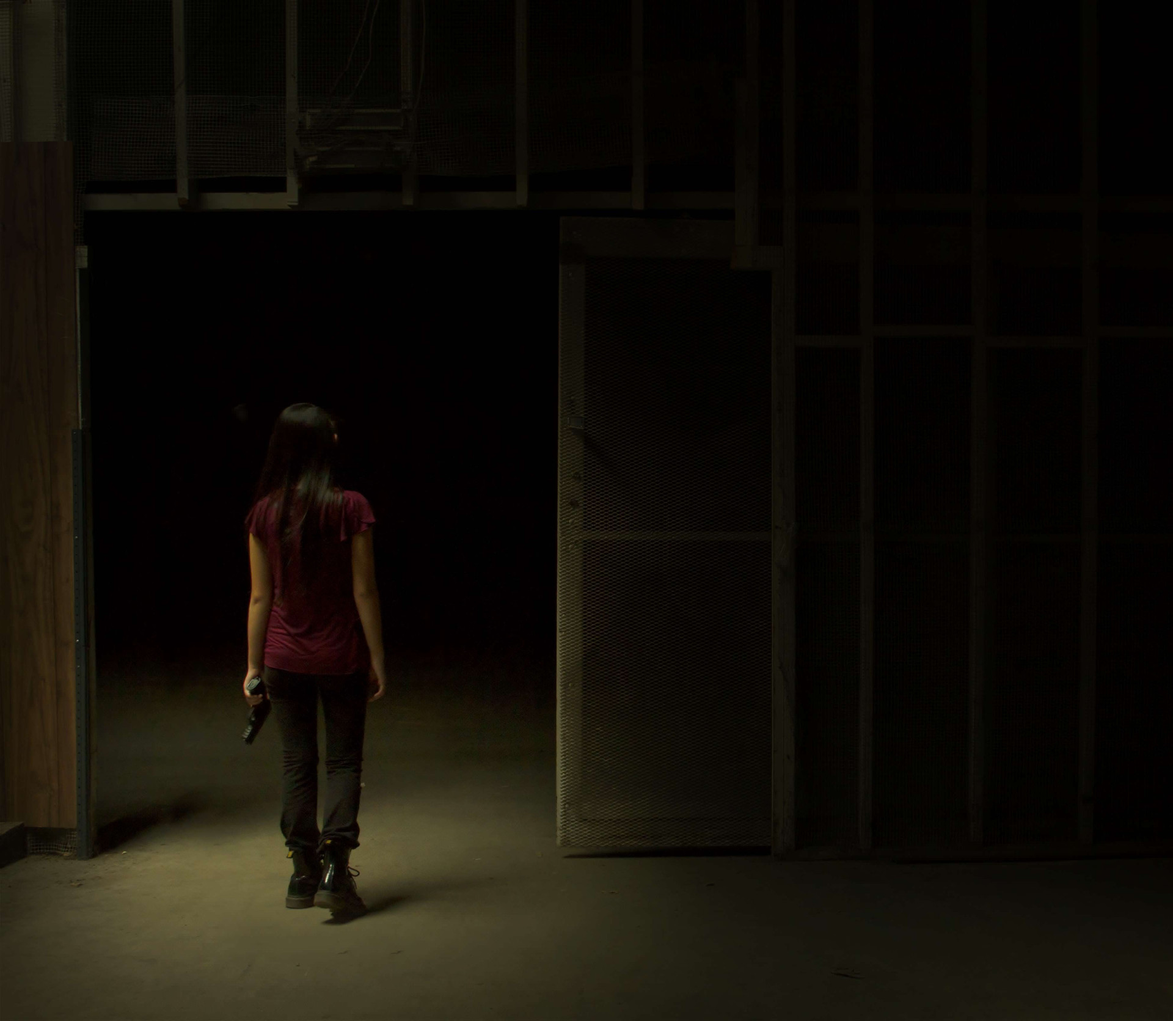
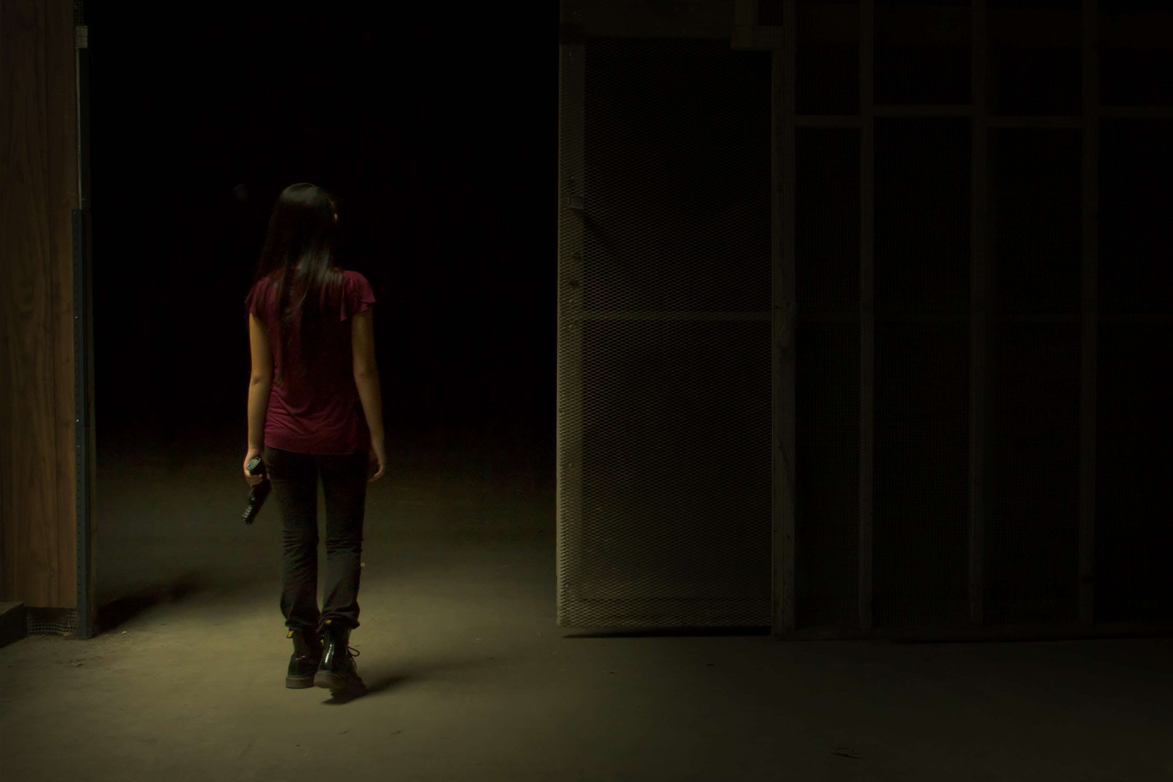
[fix] mobile css on the homepage [fix] bg sizing on the about page [new] crew bg

diff --git a/css/style.min.css b/css/style.min.css
@@ -1,1 +1,1 @@
-@font-face{font-family:codeLight;src:url('../font/CODE_Light.eot?') format('eot'),url('../font/CODE_Light.woff') format('woff'),url('../font/CODE_Light.ttf') format('truetype')}@font-face{font-family:codeBold;src:url(../font/CODE_Bold.otf)}@font-face{font-family:FontAwesome;src:url('../font/fontawesome-webfont.eot?') format('eot'),url('../font/fontawesome-webfont.woff') format('woff'),url('../font/fontawesome-webfont.ttf') format('truetype')}.col-width{width:210px;height:170.30075187969925px;display:none}.item{margin:5px;padding:20px;-webkit-box-sizing:content-box;-moz-box-sizing:content-box;box-sizing:content-box}.item img{cursor:pointer}.w1{width:160px}.w2{width:370px}.w3{width:580px}.w4{width:790px}.stamp{width:100%;font-size:50px;letter-spacing:15px;display:table}.stamp span{display:table-cell;vertical-align:bottom;padding-bottom:0;padding-left:25px;height:170px}.readtext,p{font-family:'Open Sans',sans-serif;font-family:'Play',sans-serif;font-family:'Electrolize',sans-serif;font-family:'Titillium Web',sans-serif;text-shadow:.1em .1em .2em black;font-weight:200}html{height:100%}body{font-family:codeLight;margin:0;padding:0;border:0;background-color:black;overflow:hidden;cursor:default;color:white;letter-spacing:2px;height:100%}#loading_wrapper{position:fixed;display:table;background-color:black;top:0;left:0;height:100%;width:100%;color:white;font-size:20px;letter-spacing:5px;text-align:center;vertical-align:middle;z-index:700}#loading_wrapper span{display:table-cell;vertical-align:middle;display:parent}.temp{position:fixed;display:table;top:0;left:0;height:100%;width:100%;color:white;font-size:80px;letter-spacing:25px;text-align:center;vertical-align:middle}.temp .note{font-size:20px;letter-spacing:10px}.temp>div{display:table-cell;vertical-align:middle;display:parent}.temp a{color:#3cd5ff}.content{height:100%;width:100%;overflow:hidden;position:absolute}.background{position:fixed;top:0;left:0;z-index:-1}.cast-bg{opacity:0;z-index:-1}.bg-in{opacity:1}.new-bg{z-index:0}#title_wrapper{clear:both;position:relative;height:220px;left:5%;width:650px}#title_wrapper br{line-height:3em}#title_wrapper>a{cursor:pointer;text-decoration:none}#title_floater{float:left;margin-bottom:-180px}#title_glow{position:relative;top:45px;box-shadow:0 0 150px 6px white;-webkit-box-shadow:0 0 150px 6px white}#title{font-size:80px;display:block;letter-spacing:30px;color:white;text-align:center}#subtitle{display:block;font-size:30px;letter-spacing:25px;color:silver;text-align:center}#comingsoon{display:block;font-size:40px;letter-spacing:10px;color:silver;text-align:center}#navbar_background{position:fixed;bottom:0;height:20px;width:100%;background-color:black;box-shadow:0 0 70px 50px black;-webkit-box-shadow:0 0 70px 50px black;z-index:550}#navbar_wrapper{position:fixed;bottom:10px;width:100%;text-align:center;z-index:600}#navbar{display:table;margin-left:auto;margin-right:auto;color:white;letter-spacing:5px;font-size:20px;bottom:10px}#navbar ul{list-style-type:none}#navbar>ul{display:table-row}#navbar>ul>li{display:table-cell;width:100px}.active-nav{border-bottom:none !important;border-left:20px solid transparent !important;border-right:20px solid transparent !important;padding:0 !important;padding-top:20px !important;padding-bottom:9px !important;cursor:pointer;color:#3cd5ff !important}#navbar a{border-left:0 solid transparent;border-right:0 solid transparent;text-decoration:none;color:inherit;display:block;padding:20px;padding-bottom:10px;-webkit-transition:color .5s ease;transition:color .5s ease;-webkit-transition:border-color .5s ease;transition:border-color .5s ease}#navbar a:hover{border-bottom:1px solid #3cd5ff;border-left:20px solid transparent;border-right:20px solid transparent;padding:0;padding-top:20px;padding-bottom:9px;cursor:pointer;color:#3cd5ff}.nav-link-changing{color:#3cd5ff !important;border-bottom:none !important;padding-bottom:10px !important}.nav-link-whiting{color:white !important}.viewer_wrapper{position:fixed;bottom:200px;top:20px}.viewer_wrapper_small{position:fixed;bottom:200px;top:20px;opacity:.3}#gallery{background-color:black}#gallery_wrapper{height:100%;overflow-y:auto}#gallery_wrapper_left{margin-left:20px;left:0}#gallery_wrapper_right{margin-right:20px;right:0}.gallery_thumb{width:100%}.scrollpanel_wrapper{position:fixed;height:100px;bottom:50px;width:100%}.scrollpanel{height:100%;overflow:auto;overflow-y:hidden;white-space:nowrap}.scrollpanel img{padding-left:20px;padding-right:20px;height:100%}.scrollpanel_background{position:fixed;bottom:0;height:20px;width:100%;background-color:black;box-shadow:0 0 100px 50px black;-webkit-box-shadow:0 0 100px 50px black}#image-viewer{overflow:hidden}#image-viewer>.modal-dialog{width:80%;height:90%;padding:0;margin-top:15px;background-color:black}#image-viewer>.modal-dialog>.modal-content{background-color:transparent;width:100%;height:90%}#image-viewer>.modal-dialog>.modal-content .modal-body{padding:0}.gallery-arrow{height:100%;font-family:FontAwesome;font-size:50px;display:table;margin:auto}#image-viewer .col-sm-1{cursor:pointer}.gallery-arrow>div{display:table-cell;vertical-align:middle}#gallery_pic_wrapper{height:100%;text-align:center}#gallery_pic{height:100%}.actor{width:100%;padding:20px;padding-right:20%;background-color:rgba(30,30,30,0.8);position:absolute;bottom:70px;right:-100%}.a-fade{opacity:0}.avisi{right:-20px}.bio{display:inline-block;color:white;white-space:normal;line-height:20px}.bio div{border-top:1px solid white}.first-word{font-size:35px;letter-spacing:6px;font-family:codeLight}.actor_pic{vertical-align:middle;display:inline-block;height:100%;width:22.5%;text-align:center}.actor_pic img{width:100%;max-height:100%;border:1px solid white}.actor_name{vertical-align:middle;display:inline-block;height:100%;width:4%}.actor-left .actor_name div{left:-75px;-webkit-transform:rotate(-90deg);-moz-transform:rotate(-90deg);-ms-transform:rotate(-90deg);-o-transform:rotate(-90deg);filter:progid:DXImageTransform.Microsoft.BasicImage(rotation=3)}.actor-right .actor_name div{left:-100px;-webkit-transform:rotate(90deg);-moz-transform:rotate(90deg);-ms-transform:rotate(90deg);-o-transform:rotate(90deg);filter:progid:DXImageTransform.Microsoft.BasicImage(rotation=1)}.actor_name div{position:relative;display:inline-block;top:90px;color:white;letter-spacing:10px;font-size:30px}.actor_spacer{vertical-align:middle;display:inline-block;height:100%;width:4%}.scroll_wrapper{overflow:hidden;overflow-y:auto;height:100%}.viewer-panel{display:table;vertical-align:middle}#viewer-floater{float:left;height:50%;margin-bottom:-279}#viewer{clear:both;height:500;position:relative}#viewer iframe{display:none}.visi{display:block !important}.vid_tag,.person_tag,.gal_tag{padding-top:35px;padding-bottom:5px;padding-left:15%;font-size:20px;letter-spacing:3px;border-color:transparent;-webkit-transition:color .5s ease;transition:color .5s ease;-webkit-transition:border-color .5s ease;transition:border-color .5s ease;position:relative}.vid_tag:hover,.person_tag:hover,.gal_tag:hover{border-bottom:1px solid #3cd5ff;padding-bottom:4px;cursor:pointer;color:#3cd5ff}.active-side{border-bottom:none !important;padding-bottom:5px !important;color:#3cd5ff}.active-side-changing{border-bottom:none !important;padding-bottom:5px !important;color:#3cd5ff !important}.active-side-whiting{color:white}#sidebar{height:100%;overflow-y:auto;background-color:rgba(0,0,0,0.5);box-shadow:0 0 70px 100px rgba(0,0,0,0.5);-webkit-box-shadow:0 0 70px 100px rgba(0,0,0,0.5);text-shadow:2px 2px .5em black,2px 2px .5em black;padding-top:50px}#crew-title{display:block;position:absolute;top:0;left:0;bottom:0;width:1em;white-space:nowrap;font-size:100px;background-color:rgba(0,0,0,0.75);box-shadow:0 0 70px 50px rgba(0,0,0,0.75);-webkit-box-shadow:0 0 70px 50px rgba(0,0,0,0.75)}#crew-title>div{-webkit-transform:rotate(-90deg);transform:rotate(-90deg);position:absolute;top:0;bottom:0;height:2em;margin:auto;line-height:1em}.crew-pic-hidden{margin-left:-60px}.panel{background-color:transparent;border:0;border-radius:0;padding:0}.panel-body{background-color:rgba(32,27,27,0.7)}.panel-heading{padding:10px;-webkit-transition:margin ease .3s;transition:margin ease .3s}.panel-default>.panel-heading{background:-moz-linear-gradient(left,rgba(14,12,12,0.81) 25%,rgba(14,12,12,0.6) 100%);background:-webkit-gradient(linear,left top,right top,color-stop(25%,rgba(14,12,12,0.81)),color-stop(100%,rgba(14,12,12,0.6)));background:-webkit-linear-gradient(left,rgba(14,12,12,0.81) 25%,rgba(14,12,12,0.6) 100%);background:-o-linear-gradient(left,rgba(14,12,12,0.81) 25%,rgba(14,12,12,0.6) 100%);background:-ms-linear-gradient(left,rgba(14,12,12,0.81) 25%,rgba(14,12,12,0.6) 100%);background:linear-gradient(to right,rgba(14,12,12,0.81) 25%,rgba(14,12,12,0.6) 100%);filter:progid:DXImageTransform.Microsoft.gradient(startColorstr='#cf0e0c0c',endColorstr='#1a0e0c0c',GradientType=1)}.panel-heading:focus{background-color:white}.panel-heading>div{display:inline-block}.panel-heading>div>img{padding-right:10px}.panel-title{display:inline-block}.panel-heading>div>img{height:50px}.panel-title{font-size:30px;top:7px;position:relative}.panel-title>a{color:white;font-family:codeLight;display:block;width:100%}.panel-title>a:hover{color:#3cd5ff;text-decoration:none}#expand-button{display:none !important}#image-viewer .col-sm-1{float:left;width:8.333333333333332%}#image-viewer .col-sm-10{float:left;width:83.33333333333334%}#about-title{font-size:100px;letter-spacing:20px;padding-right:40px}#about-content{font-size:15px;text-align:right;padding-right:50px}#social-content>div{padding-top:5px;padding-bottom:15px}#social-content>div>a{color:white;display:inline-block;line-height:40px;padding-left:10px}#unfixed-about-text{display:none}#social-title{font-size:40px;letter-spacing:10px}#about-content b{font-weight:400}#social-content>div>a:hover{color:#3cd5ff}@media(min-width:768 px){#sidebar:last-child{padding-bottom:80px}}@media(max-width:430px){#social-content>div>a:first-child{display:none}#social-content>div{display:inline-block}#social-content>div:first-child{display:block}}@media(max-width:767px){.stamp span{text-align:center}.temp{font-size:40px}.temp .note{font-size:10px}.w2{width:160px}.gal_tag,.vid_tag,.person_tag{padding-top:15px;padding-left:2%;padding-right:2%}#sidebar{padding-top:30px}#about-title{font-size:60px}#social-title{font-size:20px}#unfixed-about-text{display:block}#fixed-about-text{display:none}#expand-button{display:block !important;font-family:fontawesome}#navbar{display:block;background-color:#000;height:18px;width:120px;left:0;position:absolute;-webkit-transition:height .5s ease;transition:height .5s ease;box-shadow:0 0 60px 30px #000;-webkit-box-shadow:0 0 60px 30px #000}#navbar>ul>li>a{padding-top:5px;padding-bottom:5px;-webkit-transition:border-color 0 ease !important;transition:border-color 0 ease !important}#navbar>ul>li>a:hover,.active-nav{border:none !important;padding:5px 20px !important}#navbar>ul>li{display:block;text-align:center}.navbar-up{height:278px !important}.nav-link-changing{padding-bottom:5px !important}#title_wrapper{left:0;width:100%}#title{font-size:50px;letter-spacing:15px}#subtitle{font-size:25px;letter-spacing:15px}#comingsoon{font-size:30px}#sidebar>.person_tag,#sidebar>.gal_tag{padding-top:5px !important;display:inline-block;width:40%;min-width:220px;text-align:center;font-size:15px}#sidebar>.gal_tag{width:50%}#sidebar{height:auto;white-space:nowrap;background-color:rgba(0,0,0,0.8);box-shadow:0 0 100px 50px rgba(0,0,0,0.8);-webkit-box-shadow:0 0 100px 50px rgba(0,0,0,0.8);transition:scroll .3s;-webkit-transition:scroll .3s}.actor{position:fixed;bottom:10% !important;font-size:12px !important;overflow:auto;height:30%}#crew-title{position:relative;top:auto;left:auto;bottom:auto;width:100%;white-space:auto;text-align:center;font-size:150px}#crew-title>div{-webkit-transform:none;transform:none;position:relative;top:auto;bottom:auto;height:auto;margin:auto;line-height:1em}#crew>.col-sm-3{height:auto !important;width:100%}.panel-title{font-size:18px;top:3px}.panel-heading{padding:5px}.crew-pic-hidden{margin-left:-40px}#crew{margin:0}.panel-heading>div>img{height:30px}.panel-collapse>.panel-body>.row>.col-sm-9{font-size:12px}.panel-collapse>.panel-body>.row>.col-sm-3{padding-bottom:10px;width:130px;margin:auto}#crew>.col-sm-8{padding-bottom:150px}}::-webkit-scrollbar{height:5px;width:5px}::-webkit-scrollbar-thumb{-webkit-box-shadow:inset 0 0 30px #2aa7ff}::-webkit-scrollbar-track{-webkit-box-shadow:inset 0 0 20px rgba(0,0,0,0.7)}#crew ::-webkit-scrollbar-thumb{-webkit-box-shadow:inset 0 0 30px black}#crew ::-webkit-scrollbar-track{-webkit-box-shadow:inset 0 0 20px rgba(190,190,190,0.4)}#scrollbar2 .viewport{position:fixed;height:100px;bottom:40px;width:100%}#scrollbar2 .overview{position:absolute;height:100%;white-space:nowrap}#scrollbar2 .overview img{margin-left:20px;margin-right:20px;height:100%;cursor:pointer}#scrollbar2 .scrollbar{position:relative;clear:both;height:5px;bottom:-5px}#scrollbar2 .track{width:100%;height:15px;position:relative}#scrollbar2 .thumb{background-color:silver;height:5px;cursor:pointer;overflow:hidden;position:absolute;left:0;top:-5px}#scrollbar2 .thumb .end{overflow:hidden;height:25px;width:5px}#scrollbar2 .disable{display:none}.noSelect{user-select:none;-o-user-select:none;-moz-user-select:none;-khtml-user-select:none;-webkit-user-select:none}.animate03{transition:all .3s;-webkit-transition:all .3s}
+@font-face{font-family:codeLight;src:url('../font/CODE_Light.eot?') format('eot'),url('../font/CODE_Light.woff') format('woff'),url('../font/CODE_Light.ttf') format('truetype')}@font-face{font-family:codeBold;src:url(../font/CODE_Bold.otf)}@font-face{font-family:FontAwesome;src:url('../font/fontawesome-webfont.eot?') format('eot'),url('../font/fontawesome-webfont.woff') format('woff'),url('../font/fontawesome-webfont.ttf') format('truetype')}.col-width{width:210px;height:170.30075187969925px;display:none}.item{margin:5px;padding:20px;-webkit-box-sizing:content-box;-moz-box-sizing:content-box;box-sizing:content-box}.item img{cursor:pointer}.w1{width:160px}.w2{width:370px}.w3{width:580px}.w4{width:790px}.stamp{width:100%;font-size:50px;letter-spacing:15px;display:table}.stamp span{display:table-cell;vertical-align:bottom;padding-bottom:0;padding-left:25px;height:170px}.readtext,p{font-family:'Open Sans',sans-serif;font-family:'Play',sans-serif;font-family:'Electrolize',sans-serif;font-family:'Titillium Web',sans-serif;text-shadow:.1em .1em .2em black;font-weight:200}html{height:100%}body{font-family:codeLight;margin:0;padding:0;border:0;background-color:black;overflow:hidden;cursor:default;color:white;letter-spacing:2px;height:100%}#loading_wrapper{position:fixed;display:table;background-color:black;top:0;left:0;height:100%;width:100%;color:white;font-size:20px;letter-spacing:5px;text-align:center;vertical-align:middle;z-index:700}#loading_wrapper span{display:table-cell;vertical-align:middle;display:parent}.temp{position:fixed;display:table;top:0;left:0;height:100%;width:100%;color:white;font-size:80px;letter-spacing:25px;text-align:center;vertical-align:middle}.temp .note{font-size:20px;letter-spacing:10px}.temp>div{display:table-cell;vertical-align:middle;display:parent}.temp a{color:#3cd5ff}.content{height:100%;width:100%;overflow:hidden;position:absolute}.background{position:fixed;top:0;left:0;z-index:-1}.cast-bg{opacity:0;z-index:-1}.bg-in{opacity:1}.new-bg{z-index:0}#title_wrapper{clear:both;position:relative;height:220px;left:5%;width:650px}#title_wrapper br{line-height:3em}#title_wrapper>a{cursor:pointer;text-decoration:none}#title_floater{float:left;margin-bottom:-180px}#title_glow{position:relative;top:45px;box-shadow:0 0 150px 6px white;-webkit-box-shadow:0 0 150px 6px white}#title{font-size:80px;display:block;letter-spacing:30px;color:white;text-align:center}#subtitle{display:block;font-size:30px;letter-spacing:25px;color:silver;text-align:center}#comingsoon{display:block;font-size:40px;letter-spacing:10px;color:silver;text-align:center}#navbar_background{position:fixed;bottom:0;height:20px;width:100%;background-color:black;box-shadow:0 0 70px 50px black;-webkit-box-shadow:0 0 70px 50px black;z-index:550}#navbar_wrapper{position:fixed;bottom:10px;width:100%;text-align:center;z-index:600}#navbar{display:table;margin-left:auto;margin-right:auto;color:white;letter-spacing:5px;font-size:20px;bottom:10px}#navbar ul{list-style-type:none}#navbar>ul{display:table-row}#navbar>ul>li{display:table-cell;width:100px}.active-nav{border-bottom:none !important;border-left:20px solid transparent !important;border-right:20px solid transparent !important;padding:0 !important;padding-top:20px !important;padding-bottom:9px !important;cursor:pointer;color:#3cd5ff !important}#navbar a{border-left:0 solid transparent;border-right:0 solid transparent;text-decoration:none;color:inherit;display:block;padding:20px;padding-bottom:10px;-webkit-transition:color .5s ease;transition:color .5s ease;-webkit-transition:border-color .5s ease;transition:border-color .5s ease}#navbar a:hover{border-bottom:1px solid #3cd5ff;border-left:20px solid transparent;border-right:20px solid transparent;padding:0;padding-top:20px;padding-bottom:9px;cursor:pointer;color:#3cd5ff}.nav-link-changing{color:#3cd5ff !important;border-bottom:none !important;padding-bottom:10px !important}.nav-link-whiting{color:white !important}.viewer_wrapper{position:fixed;bottom:200px;top:20px}.viewer_wrapper_small{position:fixed;bottom:200px;top:20px;opacity:.3}#gallery{background-color:black}#gallery_wrapper{height:100%;overflow-y:auto}#gallery_wrapper_left{margin-left:20px;left:0}#gallery_wrapper_right{margin-right:20px;right:0}.gallery_thumb{width:100%}.scrollpanel_wrapper{position:fixed;height:100px;bottom:50px;width:100%}.scrollpanel{height:100%;overflow:auto;overflow-y:hidden;white-space:nowrap}.scrollpanel img{padding-left:20px;padding-right:20px;height:100%}.scrollpanel_background{position:fixed;bottom:0;height:20px;width:100%;background-color:black;box-shadow:0 0 100px 50px black;-webkit-box-shadow:0 0 100px 50px black}#image-viewer{overflow:hidden}#image-viewer>.modal-dialog{width:80%;height:90%;padding:0;margin-top:15px;background-color:black}#image-viewer>.modal-dialog>.modal-content{background-color:transparent;width:100%;height:90%}#image-viewer>.modal-dialog>.modal-content .modal-body{padding:0}.gallery-arrow{height:100%;font-family:FontAwesome;font-size:50px;display:table;margin:auto}#image-viewer .col-sm-1{cursor:pointer}.gallery-arrow>div{display:table-cell;vertical-align:middle}#gallery_pic_wrapper{height:100%;text-align:center}#gallery_pic{height:100%}.actor{width:100%;padding:20px;padding-right:20%;background-color:rgba(30,30,30,0.8);position:absolute;bottom:70px;right:-100%}.a-fade{opacity:0}.avisi{right:-20px}.bio{display:inline-block;color:white;white-space:normal;line-height:20px}.bio div{border-top:1px solid white}.first-word{font-size:35px;letter-spacing:6px;font-family:codeLight}.actor_pic{vertical-align:middle;display:inline-block;height:100%;width:22.5%;text-align:center}.actor_pic img{width:100%;max-height:100%;border:1px solid white}.actor_name{vertical-align:middle;display:inline-block;height:100%;width:4%}.actor-left .actor_name div{left:-75px;-webkit-transform:rotate(-90deg);-moz-transform:rotate(-90deg);-ms-transform:rotate(-90deg);-o-transform:rotate(-90deg);filter:progid:DXImageTransform.Microsoft.BasicImage(rotation=3)}.actor-right .actor_name div{left:-100px;-webkit-transform:rotate(90deg);-moz-transform:rotate(90deg);-ms-transform:rotate(90deg);-o-transform:rotate(90deg);filter:progid:DXImageTransform.Microsoft.BasicImage(rotation=1)}.actor_name div{position:relative;display:inline-block;top:90px;color:white;letter-spacing:10px;font-size:30px}.actor_spacer{vertical-align:middle;display:inline-block;height:100%;width:4%}.scroll_wrapper{overflow:hidden;overflow-y:auto;height:100%}.viewer-panel{display:table;vertical-align:middle}#viewer-floater{float:left;height:50%;margin-bottom:-279}#viewer{clear:both;height:500;position:relative}#viewer iframe{display:none}.visi{display:block !important}.vid_tag,.person_tag,.gal_tag{padding-top:35px;padding-bottom:5px;padding-left:15%;font-size:20px;letter-spacing:3px;border-color:transparent;-webkit-transition:color .5s ease;transition:color .5s ease;-webkit-transition:border-color .5s ease;transition:border-color .5s ease;position:relative}.vid_tag:hover,.person_tag:hover,.gal_tag:hover{border-bottom:1px solid #3cd5ff;padding-bottom:4px;cursor:pointer;color:#3cd5ff}.active-side{border-bottom:none !important;padding-bottom:5px !important;color:#3cd5ff}.active-side-changing{border-bottom:none !important;padding-bottom:5px !important;color:#3cd5ff !important}.active-side-whiting{color:white}#sidebar{height:100%;overflow-y:auto;background-color:rgba(0,0,0,0.5);box-shadow:0 0 70px 100px rgba(0,0,0,0.5);-webkit-box-shadow:0 0 70px 100px rgba(0,0,0,0.5);text-shadow:2px 2px .5em black,2px 2px .5em black;padding-top:50px}#crew-title{display:block;position:absolute;top:0;left:0;bottom:0;width:1em;white-space:nowrap;font-size:100px;background-color:rgba(0,0,0,0.75);box-shadow:0 0 70px 50px rgba(0,0,0,0.75);-webkit-box-shadow:0 0 70px 50px rgba(0,0,0,0.75)}#crew-title>div{-webkit-transform:rotate(-90deg);transform:rotate(-90deg);position:absolute;top:0;bottom:0;height:2em;margin:auto;line-height:1em}.crew-pic-hidden{margin-left:-60px}.panel{background-color:transparent;border:0;border-radius:0;padding:0}.panel-body{background-color:rgba(32,27,27,0.7)}.panel-heading{padding:10px;-webkit-transition:margin ease .3s;transition:margin ease .3s}.panel-default>.panel-heading{background:-moz-linear-gradient(left,rgba(14,12,12,0.81) 25%,rgba(14,12,12,0.6) 100%);background:-webkit-gradient(linear,left top,right top,color-stop(25%,rgba(14,12,12,0.81)),color-stop(100%,rgba(14,12,12,0.6)));background:-webkit-linear-gradient(left,rgba(14,12,12,0.81) 25%,rgba(14,12,12,0.6) 100%);background:-o-linear-gradient(left,rgba(14,12,12,0.81) 25%,rgba(14,12,12,0.6) 100%);background:-ms-linear-gradient(left,rgba(14,12,12,0.81) 25%,rgba(14,12,12,0.6) 100%);background:linear-gradient(to right,rgba(14,12,12,0.81) 25%,rgba(14,12,12,0.6) 100%);filter:progid:DXImageTransform.Microsoft.gradient(startColorstr='#cf0e0c0c',endColorstr='#1a0e0c0c',GradientType=1)}.panel-heading:focus{background-color:white}.panel-heading>div{display:inline-block}.panel-heading>div>img{padding-right:10px}.panel-title{display:inline-block}.panel-heading>div>img{height:50px}.panel-title{font-size:30px;top:7px;position:relative}.panel-title>a{color:white;font-family:codeLight;display:block;width:100%}.panel-title>a:hover{color:#3cd5ff;text-decoration:none}#expand-button{display:none !important}#image-viewer .col-sm-1{float:left;width:8.333333333333332%}#image-viewer .col-sm-10{float:left;width:83.33333333333334%}#about-title{font-size:100px;letter-spacing:20px;padding-right:40px}#about-content{font-size:15px;text-align:right;padding-right:50px}#social-content>div{padding-top:5px;padding-bottom:15px}#social-content>div>a{color:white;display:inline-block;line-height:40px;padding-left:10px}#unfixed-about-text{display:none}#social-title{font-size:40px;letter-spacing:10px}#about-content b{font-weight:400}#social-content>div>a:hover{color:#3cd5ff}@media(min-width:768 px){#sidebar:last-child{padding-bottom:80px}}@media(max-width:430px){#social-content>div>a:first-child{display:none}#social-content>div{display:inline-block}#social-content>div:first-child{display:block}#home>#main_background{position:absolute;left:-30%}#comingsoon{display:none}#title_wrapper{position:absolute;top:50%}}@media(max-width:767px){.stamp span{text-align:center}.temp{font-size:40px}.temp .note{font-size:10px}.w2{width:160px}.gal_tag,.vid_tag,.person_tag{padding-top:15px;padding-left:2%;padding-right:2%}#sidebar{padding-top:30px}#about-title{font-size:60px}#social-title{font-size:20px}#unfixed-about-text{display:block}#fixed-about-text{display:none}#expand-button{display:block !important;font-family:fontawesome}#navbar{display:block;background-color:#000;height:18px;width:120px;left:0;position:absolute;-webkit-transition:height .5s ease;transition:height .5s ease;box-shadow:0 0 60px 30px #000;-webkit-box-shadow:0 0 60px 30px #000}#navbar>ul>li>a{padding-top:5px;padding-bottom:5px;-webkit-transition:border-color 0 ease !important;transition:border-color 0 ease !important}#navbar>ul>li>a:hover,.active-nav{border:none !important;padding:5px 20px !important}#navbar>ul>li{display:block;text-align:center}.navbar-up{height:278px !important}.nav-link-changing{padding-bottom:5px !important}#title_wrapper{width:350px}#title{font-size:50px;letter-spacing:15px}#subtitle{font-size:25px;letter-spacing:15px}#comingsoon{font-size:30px}#sidebar>.person_tag,#sidebar>.gal_tag{padding-top:5px !important;display:inline-block;width:40%;min-width:220px;text-align:center;font-size:15px}#sidebar>.gal_tag{width:50%}#sidebar{height:auto;white-space:nowrap;background-color:rgba(0,0,0,0.8);box-shadow:0 0 100px 50px rgba(0,0,0,0.8);-webkit-box-shadow:0 0 100px 50px rgba(0,0,0,0.8);transition:scroll .3s;-webkit-transition:scroll .3s}.actor{position:fixed;bottom:10% !important;font-size:12px !important;overflow:auto;height:30%}#crew-title{position:relative;top:auto;left:auto;bottom:auto;width:100%;white-space:auto;text-align:center;font-size:150px}#crew-title>div{-webkit-transform:none;transform:none;position:relative;top:auto;bottom:auto;height:auto;margin:auto;line-height:1em}#crew>.col-sm-3{height:auto !important;width:100%}.panel-title{font-size:18px;top:3px}.panel-heading{padding:5px}.crew-pic-hidden{margin-left:-40px}#crew{margin:0}.panel-heading>div>img{height:30px}.panel-collapse>.panel-body>.row>.col-sm-9{font-size:12px}.panel-collapse>.panel-body>.row>.col-sm-3{padding-bottom:10px;width:130px;margin:auto}#crew>.col-sm-8{padding-bottom:150px}}::-webkit-scrollbar{height:5px;width:5px}::-webkit-scrollbar-thumb{-webkit-box-shadow:inset 0 0 30px #2aa7ff}::-webkit-scrollbar-track{-webkit-box-shadow:inset 0 0 20px rgba(0,0,0,0.7)}#crew ::-webkit-scrollbar-thumb{-webkit-box-shadow:inset 0 0 30px black}#crew ::-webkit-scrollbar-track{-webkit-box-shadow:inset 0 0 20px rgba(190,190,190,0.4)}#scrollbar2 .viewport{position:fixed;height:100px;bottom:40px;width:100%}#scrollbar2 .overview{position:absolute;height:100%;white-space:nowrap}#scrollbar2 .overview img{margin-left:20px;margin-right:20px;height:100%;cursor:pointer}#scrollbar2 .scrollbar{position:relative;clear:both;height:5px;bottom:-5px}#scrollbar2 .track{width:100%;height:15px;position:relative}#scrollbar2 .thumb{background-color:silver;height:5px;cursor:pointer;overflow:hidden;position:absolute;left:0;top:-5px}#scrollbar2 .thumb .end{overflow:hidden;height:25px;width:5px}#scrollbar2 .disable{display:none}.noSelect{user-select:none;-o-user-select:none;-moz-user-select:none;-khtml-user-select:none;-webkit-user-select:none}.animate03{transition:all .3s;-webkit-transition:all .3s}

diff --git a/css/style.less b/css/style.less
@@ -692,9 +692,21 @@ body {
   #social-content > div:first-child {
     display: block;
   }
+  #home > #main_background {
+    position: absolute;
+    left: -30%;
+  }
+  #comingsoon {
+    display: none;
+  }
+  #title_wrapper {
+    position: absolute;
+    top: 50%;
+  }
 }
 
 @media (max-width: 767px) {
+
   .stamp span {
     text-align: center;
   }
@@ -765,8 +777,9 @@ body {
     padding-bottom: 5px!important;
   }
   #title_wrapper {
-    left:0px;
-    width: 100%;
+    //left:0px;
+    //width: 100%;
+    width:350px;
   }
   #title {
     font-size: 50px;

diff --git a/css/style.css b/css/style.css
@@ -656,6 +656,17 @@ body {
   #social-content > div:first-child {
     display: block;
   }
+  #home > #main_background {
+    position: absolute;
+    left: -30%;
+  }
+  #comingsoon {
+    display: none;
+  }
+  #title_wrapper {
+    position: absolute;
+    top: 50%;
+  }
 }
 @media (max-width: 767px) {
   .stamp span {
@@ -730,8 +741,7 @@ body {
     padding-bottom: 5px!important;
   }
   #title_wrapper {
-    left: 0px;
-    width: 100%;
+    width: 350px;
   }
   #title {
     font-size: 50px;

diff --git a/crew.php b/crew.php
@@ -5,7 +5,7 @@ if(empty($access)) {
 }
 ?>
 <div id="crew" class="content row">
-    <img id="main_background" class="background" src="images/tunnel_l.jpg" />
+    <img id="main_background" class="background" src="images/crewBG_l.jpg" />
     <div class="col-sm-3" style="height: 100%">
         <div id="crew-title"><div>CREW</div></div>
     </div>
@@ -195,7 +195,7 @@ if(empty($access)) {
                             <div class="col-sm-3"><img style="width:100%" src="images/crew/JustinTang.jpg"/></div>
                             <div class="col-sm-9">
                                 <p>
-                                    Justin Tang is a junior attending Freehold Township High School in an International Studies learning program.  As the younger cousin of both Brian Tang and Austin Eng, Justin's love for film stemmed from a mutual interest in Star Wars, as indicated by his massive Star Wars Lego collection.  He later got into stop-motion animation along with his cousins, producing several very amateur Lego stop-motion films himself.
+                                    Justin Tang is a student attending Freehold Township High School and is currently enrolled in an International Studies learning program.  As the younger cousin of both Brian Tang and Austin Eng, Justin's love for film stemmed from a mutual interest in Star Wars, as indicated by his massive Star Wars Lego collection.  He later got into stop-motion animation along with his cousins, producing several very amateur Lego stop-motion films himself.
                                 </p>
                                 <p>
                                     However, Justin decided to move onto bigger and better things and joined Brian Tang and Stopmotionclub in the creation of the viral video hit Temple Run the Movie Trailer.  Known as the "behind the scenes guy" and the "do-everything-else-that-needs-to-be-done guy," (which includes acting on the fly and holding up camera rigs and water bottles) Justin was always recording precious BTS footage just in case a blooper slipped and nobody was there to catch it, all while filling in any other role that was necessary.  He again joined Brian and Josh in the making of Prebirth: The Eternal War.
